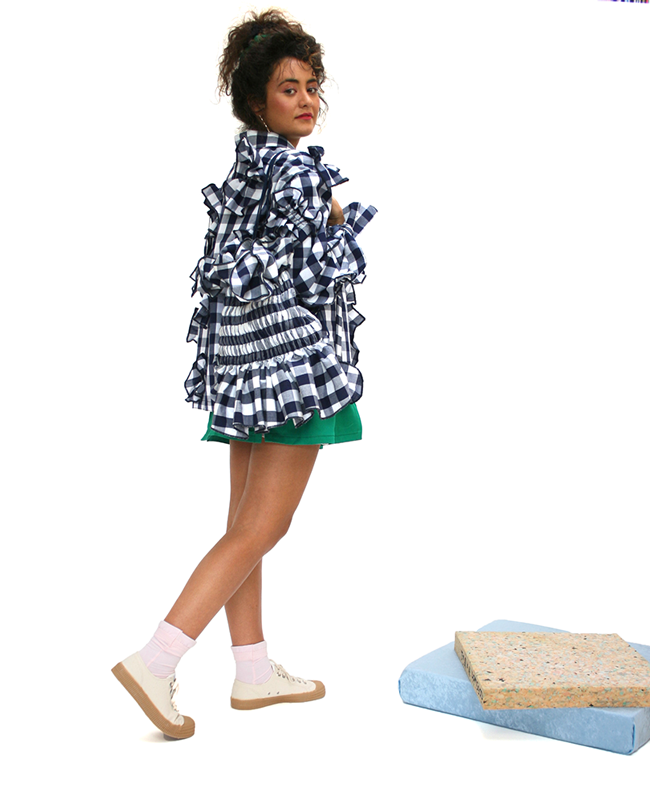
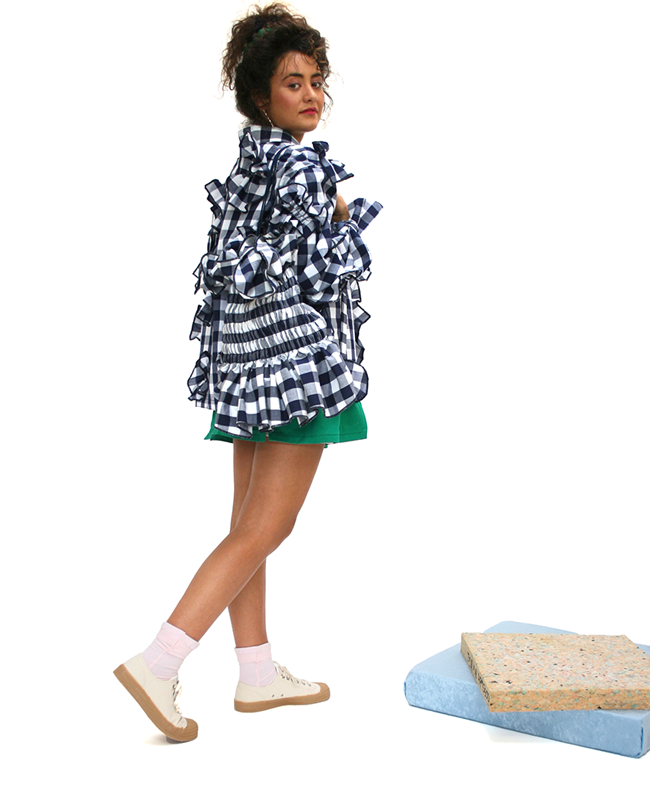
replaced jpg with png

diff --git a/app/take-it-easy.html b/app/take-it-easy.html
@@ -40,12 +40,12 @@
 
   <div class='wrapper'>
    <div id='gallery-wrapper'>
-    <img src="../../assets/images/take_it_easy/1.jpg" class='gallery-image-1'></img>
+    <img src="../../assets/images/take_it_easy/1.png" class='gallery-image-1'></img>
     <img src="../../assets/images/take_it_easy/2.png" class='gallery-image-2'></img>
     <img src="../../assets/images/take_it_easy/3.png" class='gallery-image-3'></img>
     <img src="../../assets/images/take_it_easy/4.png" class='gallery-image-4'></img>
     <img src="../../assets/images/take_it_easy/5.png" class='gallery-image-5'></img>
-    <img src="../../assets/images/take_it_easy/6.jpg" class='gallery-image-6'></img>
+    <img src="../../assets/images/take_it_easy/6.png" class='gallery-image-6'></img>
     <img src="../../assets/images/take_it_easy/7.png" class='gallery-image-7'></img>
     <img src="../../assets/images/take_it_easy/8.png" class='gallery-image-8'></img>
     <img src="../../assets/images/take_it_easy/9.png" class='gallery-image-9'></img>
@@ -53,17 +53,17 @@
     <img src="../../assets/images/take_it_easy/11.png" class='gallery-image-11'></img>
     <img src="../../assets/images/take_it_easy/12.png" class='gallery-image-12'></img>
     <img src="../../assets/images/take_it_easy/13.png" class='gallery-image-13'></img>
-    <img src="../../assets/images/take_it_easy/14.jpg" class='gallery-image-14'></img>
-    <img src="../../assets/images/take_it_easy/15.jpg" class='gallery-image-15'></img>
-    <img src="../../assets/images/take_it_easy/16.jpg" class='gallery-image-16'></img>
+    <img src="../../assets/images/take_it_easy/14.png" class='gallery-image-14'></img>
+    <img src="../../assets/images/take_it_easy/15.png" class='gallery-image-15'></img>
+    <img src="../../assets/images/take_it_easy/16.png" class='gallery-image-16'></img>
     <img src="../../assets/images/take_it_easy/17.png" class='gallery-image-17'></img>
-    <img src="../../assets/images/take_it_easy/18.jpg" class='gallery-image-18'></img>
-    <img src="../../assets/images/take_it_easy/19.jpg" class='gallery-image-19'></img>
-    <img src="../../assets/images/take_it_easy/20.jpg" class='gallery-image-20'></img>
-    <img src="../../assets/images/take_it_easy/21.jpg" class='gallery-image-21'></img>
-    <img src="../../assets/images/take_it_easy/22.jpg" class='gallery-image-22'></img>
-    <img src="../../assets/images/take_it_easy/23.jpg" class='gallery-image-23'></img>
-    <img src="../../assets/images/take_it_easy/24.jpg" class='gallery-image-24'></img>
+    <img src="../../assets/images/take_it_easy/18.png" class='gallery-image-18'></img>
+    <img src="../../assets/images/take_it_easy/19.png" class='gallery-image-19'></img>
+    <img src="../../assets/images/take_it_easy/20.png" class='gallery-image-20'></img>
+    <img src="../../assets/images/take_it_easy/21.png" class='gallery-image-21'></img>
+    <img src="../../assets/images/take_it_easy/22.png" class='gallery-image-22'></img>
+    <img src="../../assets/images/take_it_easy/23.png" class='gallery-image-23'></img>
+    <img src="../../assets/images/take_it_easy/24.png" class='gallery-image-24'></img>
     <img src="../../assets/images/take_it_easy/25.png" class='gallery-image-25'></img>
     <img src="../../assets/images/take_it_easy/26.png" class='gallery-image-26'></img>
   </div>

diff --git a/app/temp/styles/styles.css b/app/temp/styles/styles.css
@@ -1945,6 +1945,7 @@ button:hover{
 #gallery-wrapper {
 
     margin-top: 15px !important;
+    margin-bottom: 15px !important;
 
 }
 
@@ -1962,6 +1963,7 @@ button:hover{
 
 #gallery-wrapper img {
         width: 100%;
+        border: 2px solid #ffc6df;
     }
 
 @media(min-width: 350px){

diff --git a/app/assets/styles/modules/_grid.css b/app/assets/styles/modules/_grid.css
@@ -1,6 +1,7 @@
 #gallery-wrapper {
 
     margin-top: 15px !important;
+    margin-bottom: 15px !important;
 
     @mixin atSmall {
     margin: 0 auto;
@@ -12,6 +13,7 @@
 
     & img {
         width: 100%;
+        border: 2px solid $mainPink;
     }
 
 }
